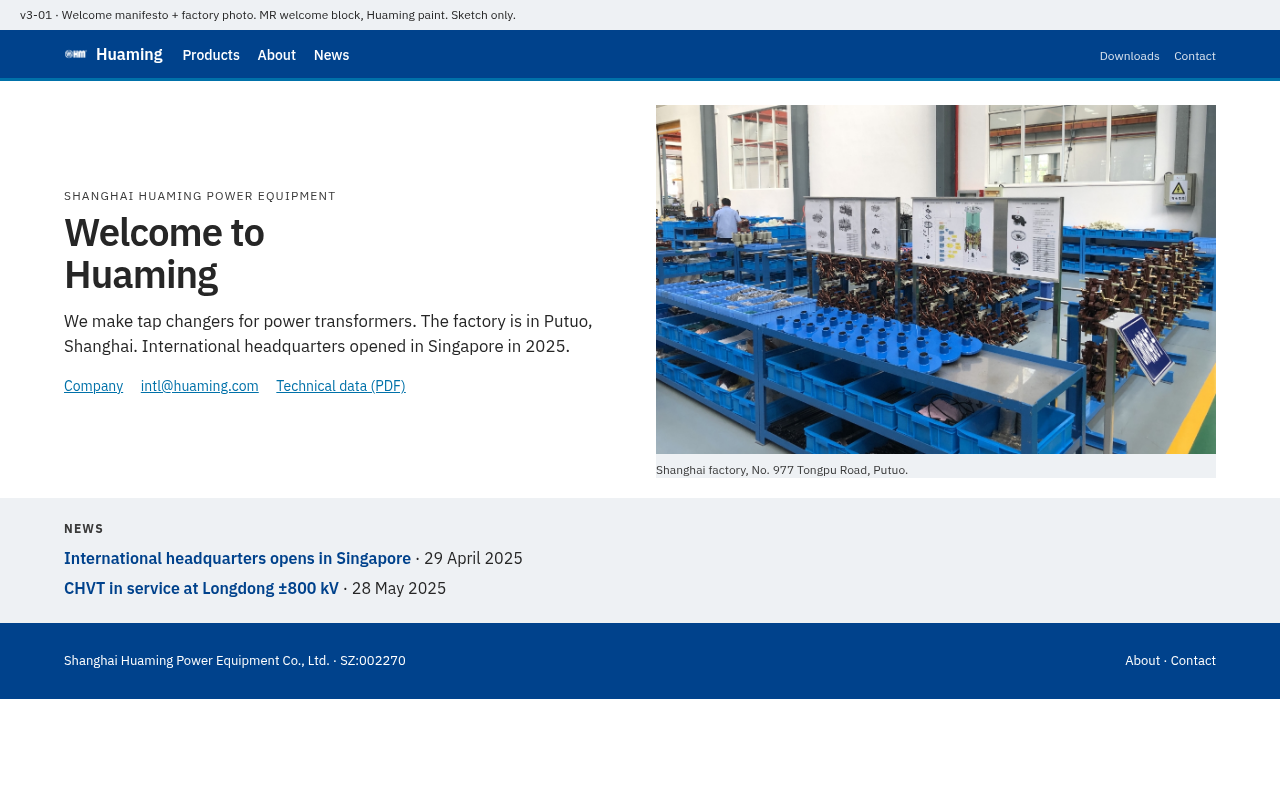
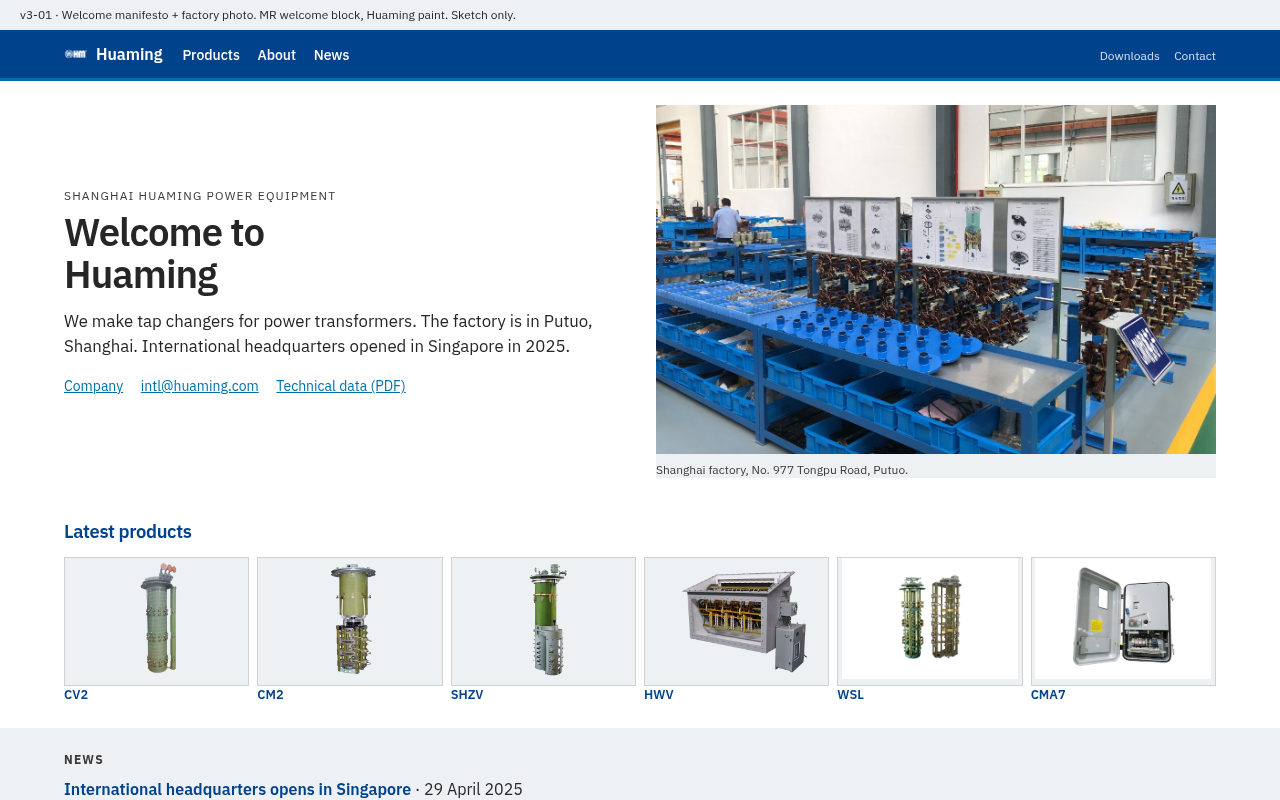
sketches: add Latest products under company intro.
Company-first screen stays. CV2–CMA7 strip below, MR rhythm, no gold. Live index not wired.

Changed region(s): [[0.0, 0.6562, 1.0, 0.875], [0.0312, 0.9375, 0.4062, 1.0]]

diff --git a/sketches/overnight-unclone/home-v3/05.html b/sketches/overnight-unclone/home-v3/05.html
@@ -34,6 +34,13 @@
     .news h2 { margin:0 0 .5rem; font-size:.75rem; letter-spacing:.1em; text-transform:uppercase; color:#3a3a3a; }
     .news a { color:var(--navy); font-weight:600; text-decoration:none; display:block; margin:0 0 .75rem; }
     .news time { display:block; font-size:.75rem; font-weight:400; color:#3a3a3a; }
+    .latest { width:min(72rem, calc(100% - 2rem)); margin:0 auto; padding:1.25rem 0 1.5rem; }
+    .latest h2 { margin:0 0 .75rem; font-size:1.15rem; font-weight:600; letter-spacing:-.02em; color:var(--navy); }
+    .latest .row { display:grid; grid-template-columns:repeat(6,minmax(0,1fr)); gap:.5rem; }
+    .latest a { text-decoration:none; color:var(--navy); font-size:.8rem; font-weight:600; }
+    .latest .t { aspect-ratio:3/2; background:var(--band); border:1px solid var(--rule); }
+    .latest img { width:100%; height:100%; object-fit:contain; }
+    @media (max-width:800px){ .latest .row { grid-template-columns:repeat(3,1fr); } }
     footer { background:var(--navy); color:#fff; padding:1rem 0; font-size:.8125rem; }
     footer .in { width:min(72rem, calc(100% - 2rem)); margin:0 auto; display:flex; justify-content:space-between; }
     footer a { color:#fff; text-decoration:none; }
@@ -72,6 +79,17 @@
         <a href="/news/chvt-longdong-800kv/"><time datetime="2025-05-28">28 May 2025</time>CHVT in service at Longdong ±800 kV</a>
         <a href="/about/">Company</a>
       </aside>
+    </section>
+    <section class="latest">
+      <h2>Latest products</h2>
+      <div class="row">
+        <a href="/products/cv2/"><div class="t"><img src="cv2.png" alt="" width="600" height="414" /></div>CV2</a>
+        <a href="/products/cm2/"><div class="t"><img src="cm2.png" alt="" width="600" height="414" /></div>CM2</a>
+        <a href="/products/shzv/"><div class="t"><img src="shzv.png" alt="" width="600" height="414" /></div>SHZV</a>
+        <a href="/products/hwv/"><div class="t"><img src="hwv.png" alt="" width="600" height="414" /></div>HWV</a>
+        <a href="/products/wsl/"><div class="t"><img src="wsl.jpg" alt="" width="838" height="578" /></div>WSL</a>
+        <a href="/products/cma7/"><div class="t"><img src="cma7.jpg" alt="" width="836" height="577" /></div>CMA7</a>
+      </div>
     </section>
   </main>
   <footer><div class="in"><p>Turkey 2016 · Brazil and USA 2019 · Indonesia 2025</p><p><a href="/contact/">Contact</a></p></div></footer>

diff --git a/sketches/overnight-unclone/home-v3/04.html b/sketches/overnight-unclone/home-v3/04.html
@@ -30,6 +30,13 @@
     .letter li { padding:.35rem 0; border-bottom:1px solid var(--rule); }
     .news { background:var(--band); padding:1.15rem 1.75rem; }
     .news a { color:var(--navy); font-weight:600; text-decoration:none; }
+    .latest { width:min(72rem, calc(100% - 2rem)); margin:0 auto; padding:1.25rem 0 1.5rem; }
+    .latest h2 { margin:0 0 .75rem; font-size:1.15rem; font-weight:600; letter-spacing:-.02em; color:var(--navy); }
+    .latest .row { display:grid; grid-template-columns:repeat(6,minmax(0,1fr)); gap:.5rem; }
+    .latest a { text-decoration:none; color:var(--navy); font-size:.8rem; font-weight:600; }
+    .latest .t { aspect-ratio:3/2; background:var(--band); border:1px solid var(--rule); }
+    .latest img { width:100%; height:100%; object-fit:contain; }
+    @media (max-width:800px){ .latest .row { grid-template-columns:repeat(3,1fr); } }
     footer { background:var(--navy); color:#fff; padding:1rem 1.75rem; font-size:.8125rem; display:flex; justify-content:space-between; }
     footer a { color:#fff; text-decoration:none; }
     @media (max-width:800px){ .fold { grid-template-columns:1fr; } }
@@ -66,6 +73,17 @@
           <p style="margin:0;"><a href="/news/singapore-international-hq/">Singapore headquarters, 29 April 2025</a></p>
           <p style="margin:.35rem 0 0;"><a href="/news/chvt-longdong-800kv/">Longdong ±800 kV, 28 May 2025</a></p>
         </div>
+      </div>
+    </section>
+    <section class="latest">
+      <h2>Latest products</h2>
+      <div class="row">
+        <a href="/products/cv2/"><div class="t"><img src="cv2.png" alt="" width="600" height="414" /></div>CV2</a>
+        <a href="/products/cm2/"><div class="t"><img src="cm2.png" alt="" width="600" height="414" /></div>CM2</a>
+        <a href="/products/shzv/"><div class="t"><img src="shzv.png" alt="" width="600" height="414" /></div>SHZV</a>
+        <a href="/products/hwv/"><div class="t"><img src="hwv.png" alt="" width="600" height="414" /></div>HWV</a>
+        <a href="/products/wsl/"><div class="t"><img src="wsl.jpg" alt="" width="838" height="578" /></div>WSL</a>
+        <a href="/products/cma7/"><div class="t"><img src="cma7.jpg" alt="" width="836" height="577" /></div>CMA7</a>
       </div>
     </section>
   </main>

diff --git a/sketches/overnight-unclone/home-v3/01.html b/sketches/overnight-unclone/home-v3/01.html
@@ -28,6 +28,13 @@
     figure { margin:0; background:var(--band); }
     figure img { display:block; width:100%; height:auto; max-height:22rem; object-fit:cover; object-position:center; }
     figcaption { font-size:.75rem; color:#3a3a3a; padding:.4rem 0 0; }
+    .latest { width:min(72rem, calc(100% - 2rem)); margin:0 auto; padding:1.25rem 0 1.5rem; }
+    .latest h2 { margin:0 0 .75rem; font-size:1.15rem; font-weight:600; letter-spacing:-.02em; color:var(--navy); }
+    .latest .row { display:grid; grid-template-columns:repeat(6,minmax(0,1fr)); gap:.5rem; }
+    .latest a { text-decoration:none; color:var(--navy); font-size:.8rem; font-weight:600; }
+    .latest .t { aspect-ratio:3/2; background:var(--band); border:1px solid var(--rule); }
+    .latest img { width:100%; height:100%; object-fit:contain; }
+    @media (max-width:800px){ .latest .row { grid-template-columns:repeat(3,1fr); } }
     .news { background:var(--band); padding:1.4rem 0; }
     .news .in, footer .in { width:min(72rem, calc(100% - 2rem)); margin:0 auto; }
     .news h2 { margin:0 0 .6rem; font-size:.75rem; letter-spacing:.1em; text-transform:uppercase; color:#3a3a3a; }
@@ -64,6 +71,17 @@
         <img src="factory.jpg" alt="Shanghai factory, Putuo." />
         <figcaption>Shanghai factory, No. 977 Tongpu Road, Putuo.</figcaption>
       </figure>
+    </section>
+    <section class="latest">
+      <h2>Latest products</h2>
+      <div class="row">
+        <a href="/products/cv2/"><div class="t"><img src="cv2.png" alt="" width="600" height="414" /></div>CV2</a>
+        <a href="/products/cm2/"><div class="t"><img src="cm2.png" alt="" width="600" height="414" /></div>CM2</a>
+        <a href="/products/shzv/"><div class="t"><img src="shzv.png" alt="" width="600" height="414" /></div>SHZV</a>
+        <a href="/products/hwv/"><div class="t"><img src="hwv.png" alt="" width="600" height="414" /></div>HWV</a>
+        <a href="/products/wsl/"><div class="t"><img src="wsl.jpg" alt="" width="838" height="578" /></div>WSL</a>
+        <a href="/products/cma7/"><div class="t"><img src="cma7.jpg" alt="" width="836" height="577" /></div>CMA7</a>
+      </div>
     </section>
     <section class="news">
       <div class="in">

diff --git a/sketches/overnight-unclone/home-v3/03.html b/sketches/overnight-unclone/home-v3/03.html
@@ -30,6 +30,13 @@
     .place { margin:0; font-size:.75rem; letter-spacing:.1em; text-transform:uppercase; opacity:.75; }
     h2 { margin:.35rem 0 0; font-size:1.35rem; font-weight:600; }
     article p { margin:.7rem 0 0; font-size:.9375rem; }
+    .latest { width:min(72rem, calc(100% - 2rem)); margin:0 auto; padding:1.25rem 0 1.5rem; }
+    .latest h2 { margin:0 0 .75rem; font-size:1.15rem; font-weight:600; letter-spacing:-.02em; color:var(--navy); }
+    .latest .row { display:grid; grid-template-columns:repeat(6,minmax(0,1fr)); gap:.5rem; }
+    .latest a { text-decoration:none; color:var(--navy); font-size:.8rem; font-weight:600; }
+    .latest .t { aspect-ratio:3/2; background:var(--band); border:1px solid var(--rule); }
+    .latest img { width:100%; height:100%; object-fit:contain; }
+    @media (max-width:800px){ .latest .row { grid-template-columns:repeat(3,1fr); } }
     .news { padding:1.3rem 0; border-top:1px solid var(--rule); }
     .news .in, footer .in { width:min(72rem, calc(100% - 2rem)); margin:0 auto; }
     .news a { color:var(--navy); font-weight:600; text-decoration:none; }
@@ -69,6 +76,17 @@
         <p>Opened 29 April 2025. Mail: <a href="mailto:intl@huaming.com">intl@huaming.com</a>.</p>
         <p><a href="/contact/">Write Singapore</a></p>
       </article>
+    </section>
+    <section class="latest">
+      <h2>Latest products</h2>
+      <div class="row">
+        <a href="/products/cv2/"><div class="t"><img src="cv2.png" alt="" width="600" height="414" /></div>CV2</a>
+        <a href="/products/cm2/"><div class="t"><img src="cm2.png" alt="" width="600" height="414" /></div>CM2</a>
+        <a href="/products/shzv/"><div class="t"><img src="shzv.png" alt="" width="600" height="414" /></div>SHZV</a>
+        <a href="/products/hwv/"><div class="t"><img src="hwv.png" alt="" width="600" height="414" /></div>HWV</a>
+        <a href="/products/wsl/"><div class="t"><img src="wsl.jpg" alt="" width="838" height="578" /></div>WSL</a>
+        <a href="/products/cma7/"><div class="t"><img src="cma7.jpg" alt="" width="836" height="577" /></div>CMA7</a>
+      </div>
     </section>
     <section class="news">
       <div class="in">

diff --git a/sketches/overnight-unclone/home-v3/02.html b/sketches/overnight-unclone/home-v3/02.html
@@ -30,6 +30,13 @@
     .photo { margin:1rem 0 0; background:var(--band); }
     .photo img { display:block; width:100%; height:auto; max-height:16rem; object-fit:cover; object-position:center; }
     .photo p { margin:0; padding:.4rem .1rem 0; font-size:.75rem; color:#3a3a3a; }
+    .latest { width:min(72rem, calc(100% - 2rem)); margin:0 auto; padding:1.25rem 0 1.5rem; }
+    .latest h2 { margin:0 0 .75rem; font-size:1.15rem; font-weight:600; letter-spacing:-.02em; color:var(--navy); }
+    .latest .row { display:grid; grid-template-columns:repeat(6,minmax(0,1fr)); gap:.5rem; }
+    .latest a { text-decoration:none; color:var(--navy); font-size:.8rem; font-weight:600; }
+    .latest .t { aspect-ratio:3/2; background:var(--band); border:1px solid var(--rule); }
+    .latest img { width:100%; height:100%; object-fit:contain; }
+    @media (max-width:800px){ .latest .row { grid-template-columns:repeat(3,1fr); } }
     .news { background:var(--band); padding:1.3rem 0; }
     .news .in, footer .in { width:min(72rem, calc(100% - 2rem)); margin:0 auto; }
     .news a { color:var(--navy); font-weight:600; text-decoration:none; }
@@ -63,6 +70,17 @@
         <img src="engineers.png" alt="Shanghai factory." />
         <p>Shanghai factory. CNAS laboratory accreditation, 2009.</p>
       </figure>
+    </section>
+    <section class="latest">
+      <h2>Latest products</h2>
+      <div class="row">
+        <a href="/products/cv2/"><div class="t"><img src="cv2.png" alt="" width="600" height="414" /></div>CV2</a>
+        <a href="/products/cm2/"><div class="t"><img src="cm2.png" alt="" width="600" height="414" /></div>CM2</a>
+        <a href="/products/shzv/"><div class="t"><img src="shzv.png" alt="" width="600" height="414" /></div>SHZV</a>
+        <a href="/products/hwv/"><div class="t"><img src="hwv.png" alt="" width="600" height="414" /></div>HWV</a>
+        <a href="/products/wsl/"><div class="t"><img src="wsl.jpg" alt="" width="838" height="578" /></div>WSL</a>
+        <a href="/products/cma7/"><div class="t"><img src="cma7.jpg" alt="" width="836" height="577" /></div>CMA7</a>
+      </div>
     </section>
     <section class="news">
       <div class="in">

diff --git a/sketches/overnight-unclone/home-v3/PICK.md b/sketches/overnight-unclone/home-v3/PICK.md
@@ -1,5 +1,5 @@
-01 Welcome manifesto + factory photo on the fold. Stolen: MR “Welcome to Reinhausen” company block (rhythm only).
-02 Company-in-numbers (1989 / 150+ / Shanghai / Singapore) + factory still. Stolen: MR “in numbers” strip, moved to the first screen.
-03 Split two homes: Shanghai factory | Singapore HQ, addresses and mail, no machines. Stolen: Hitachi Energy two-site company page.
-04 Factory photo + short letter for transformer OEMs + news peek. Stolen: Siemens company letter beside a plant photo.
-05 Chairman (cropped to Xiao Yi) + history facts; news list on the fold. Stolen: ABB leadership portrait + MR news column.
+01 Welcome manifesto + factory photo on the fold; Latest products (CV2–CMA7) below like MR. Stolen: MR welcome block + Latest Products strip.
+02 Company-in-numbers first; Latest products strip below. Stolen: MR “in numbers” + Latest Products.
+03 Shanghai | Singapore first; Latest products strip below. Stolen: Hitachi two-site company page + MR product strip.
+04 Factory letter first; Latest products strip below. Stolen: Siemens company letter + MR Latest Products.
+05 Chairman + facts + news on the fold; Latest products strip below. Stolen: ABB leadership + MR news + Latest Products.
